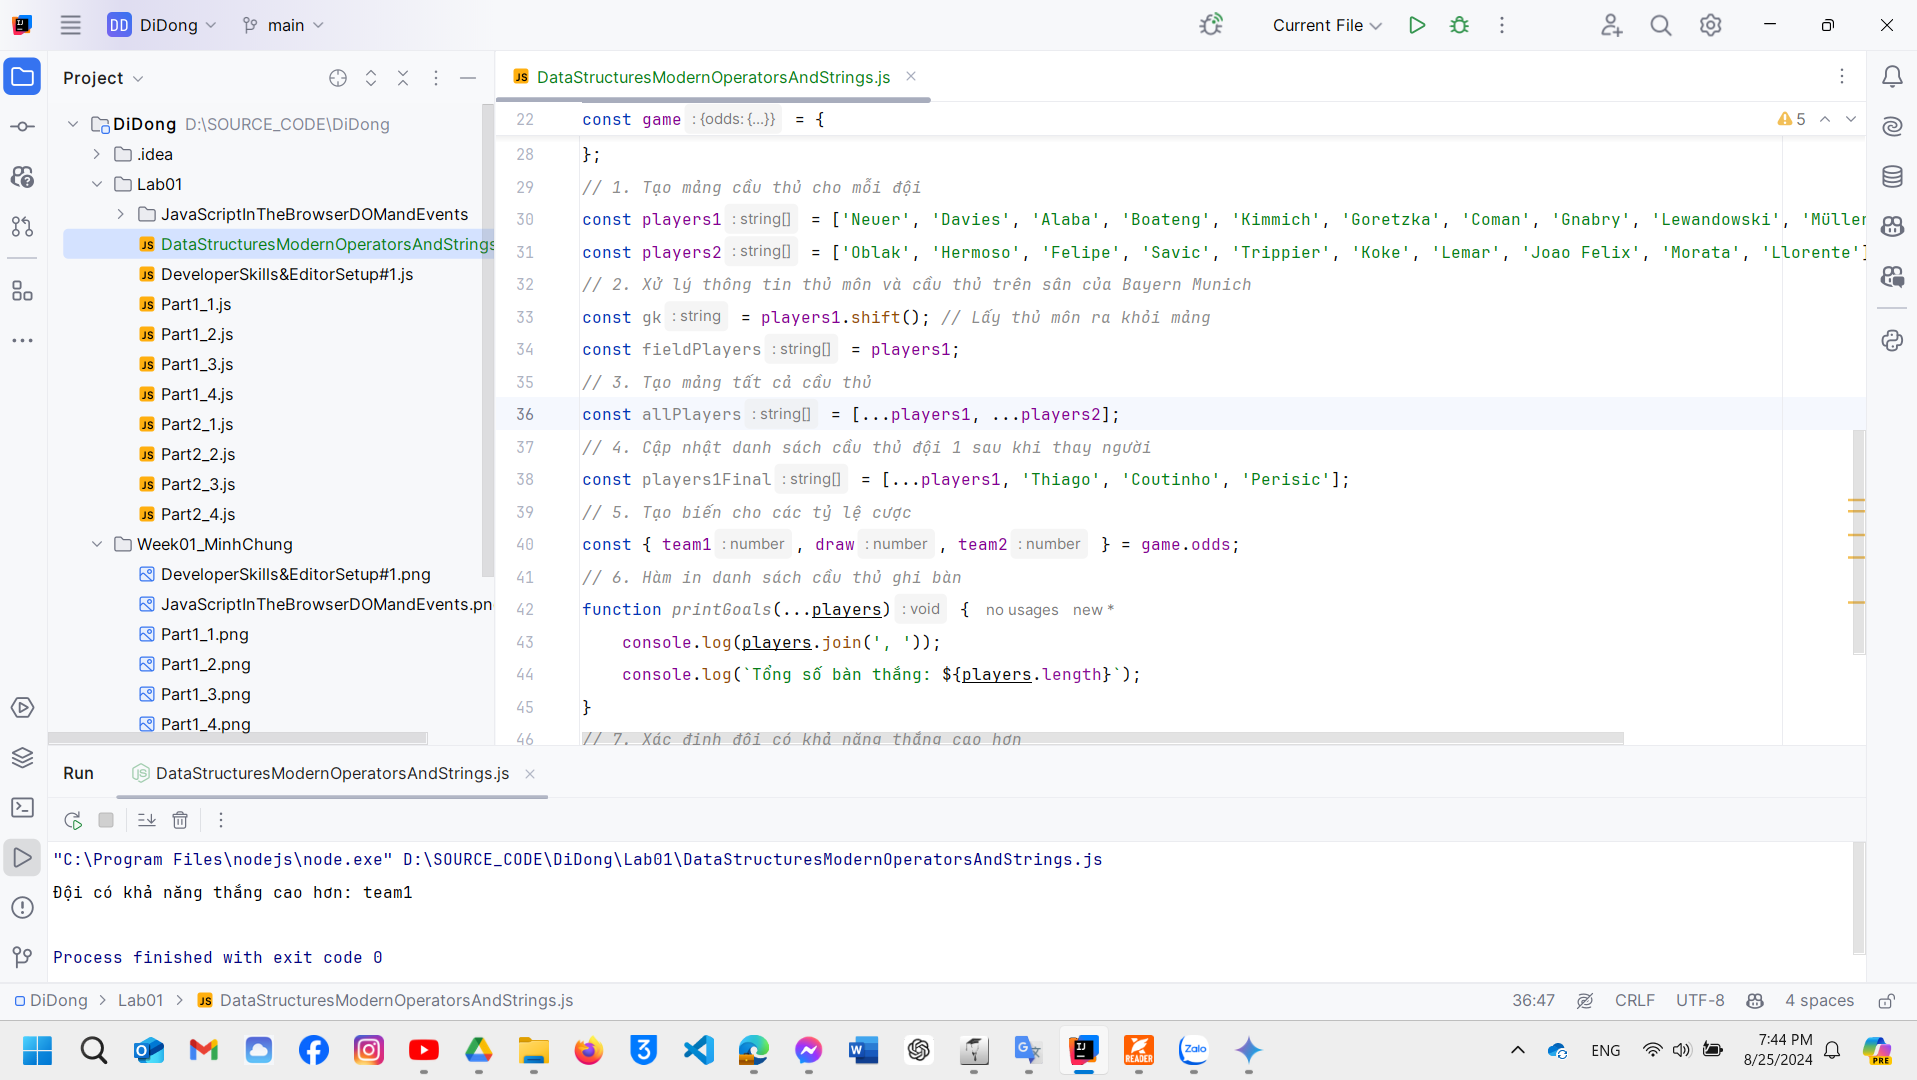
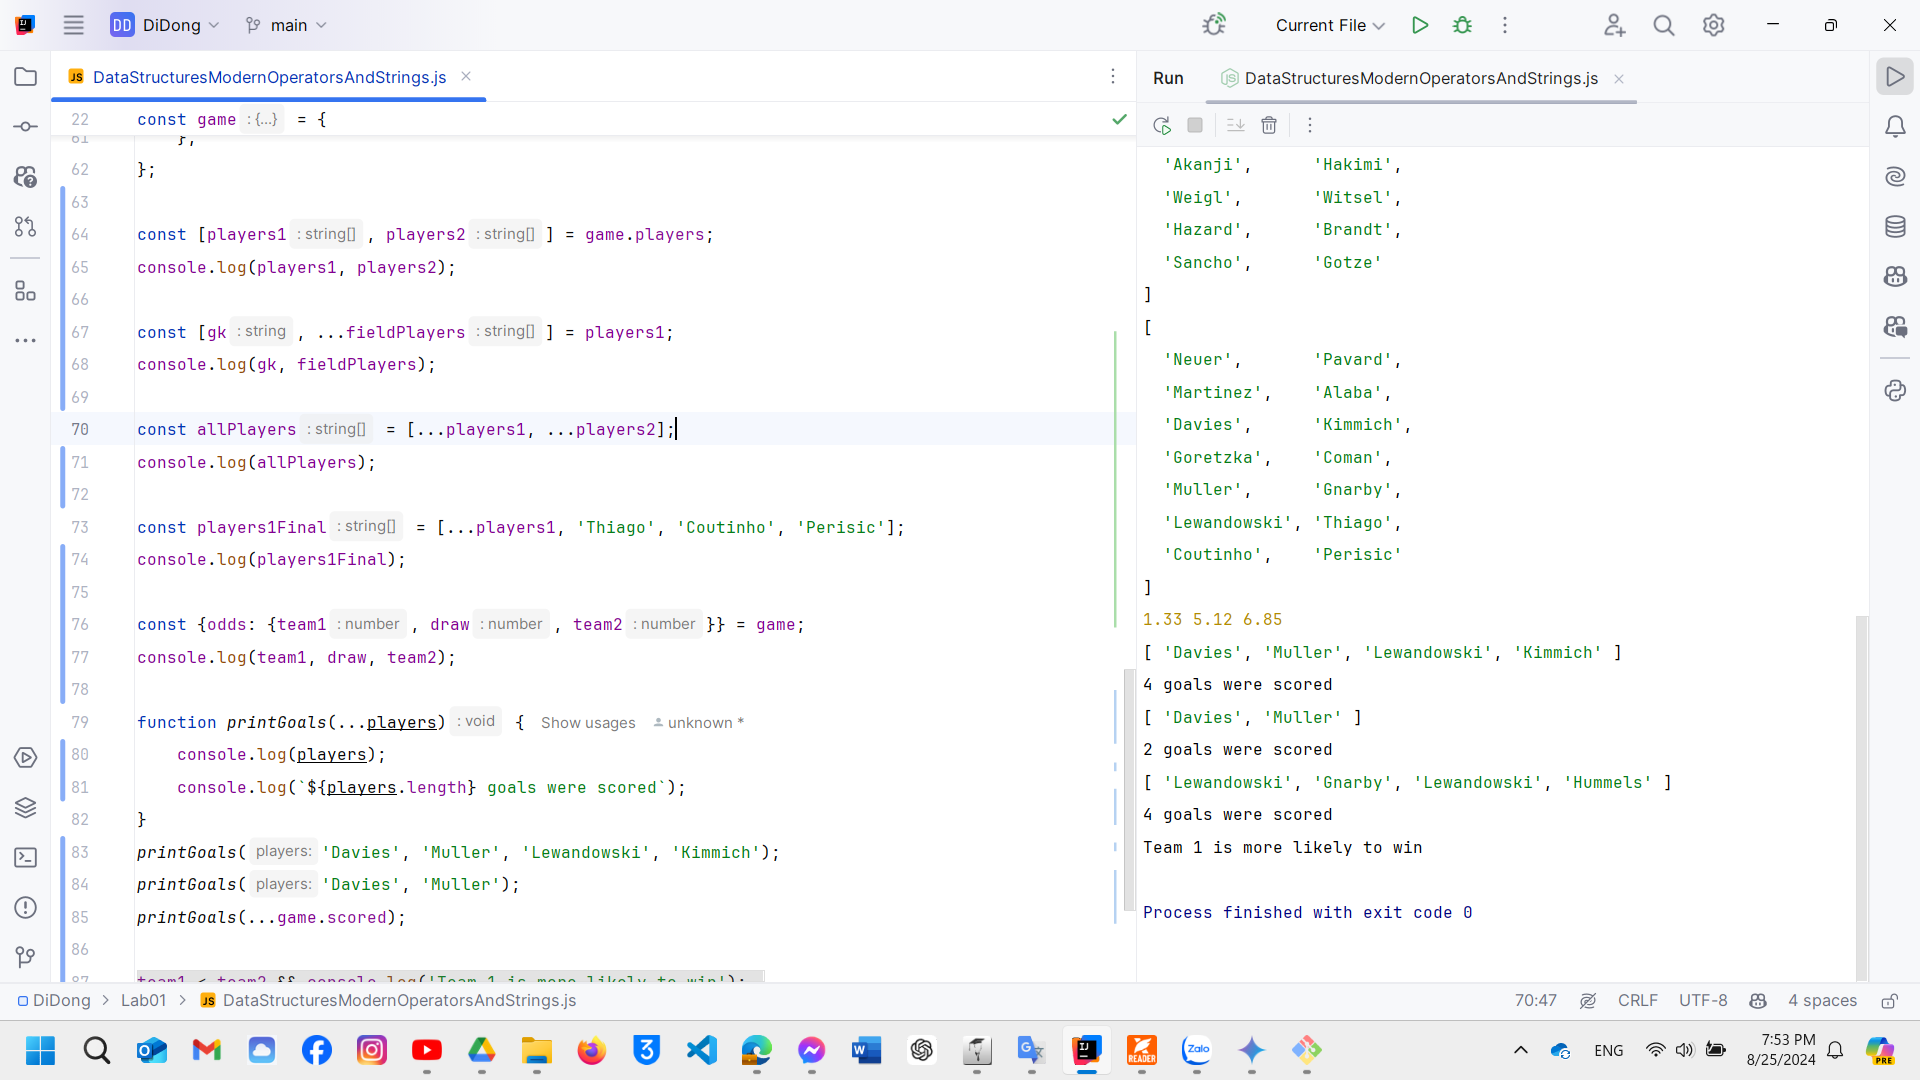
commit Data Structures Modern Operators And Strings

diff --git a/Lab01/DataStructuresModernOperatorsAndStrings.js b/Lab01/DataStructuresModernOperatorsAndStrings.js
@@ -20,29 +20,69 @@
 // ---------------------------------------------------------------------------------------------------------------------------------------------------
 // Giả sử dữ liệu từ dịch vụ web được lưu trữ trong biến game
 const game = {
+    team1: 'Bayern Munich',
+    team2: 'Borrussia Dortmund',
+    players: [
+        [
+            'Neuer',
+            'Pavard',
+            'Martinez',
+            'Alaba',
+            'Davies',
+            'Kimmich',
+            'Goretzka',
+            'Coman',
+            'Muller',
+            'Gnarby',
+            'Lewandowski',
+        ],
+        [
+            'Burki',
+            'Schulz',
+            'Hummels',
+            'Akanji',
+            'Hakimi',
+            'Weigl',
+            'Witsel',
+            'Hazard',
+            'Brandt',
+            'Sancho',
+            'Gotze',
+        ],
+    ],
+    score: '4:0',
+    scored: ['Lewandowski', 'Gnarby', 'Lewandowski',
+        'Hummels'],
+    date: 'Nov 9th, 2037',
     odds: {
         team1: 1.33,
         draw: 5.12,
         team2: 6.85,
     },
 };
-// 1. Tạo mảng cầu thủ cho mỗi đội
-const players1 = ['Neuer', 'Davies', 'Alaba', 'Boateng', 'Kimmich', 'Goretzka', 'Coman', 'Gnabry', 'Lewandowski', 'Müller'];
-const players2 = ['Oblak', 'Hermoso', 'Felipe', 'Savic', 'Trippier', 'Koke', 'Lemar', 'Joao Felix', 'Morata', 'Llorente'];
-// 2. Xử lý thông tin thủ môn và cầu thủ trên sân của Bayern Munich
-const gk = players1.shift(); // Lấy thủ môn ra khỏi mảng
-const fieldPlayers = players1;
-// 3. Tạo mảng tất cả cầu thủ
+
+const [players1, players2] = game.players;
+console.log(players1, players2);
+
+const [gk, ...fieldPlayers] = players1;
+console.log(gk, fieldPlayers);
+
 const allPlayers = [...players1, ...players2];
-// 4. Cập nhật danh sách cầu thủ đội 1 sau khi thay người
+console.log(allPlayers);
+
 const players1Final = [...players1, 'Thiago', 'Coutinho', 'Perisic'];
-// 5. Tạo biến cho các tỷ lệ cược
-const { team1, draw, team2 } = game.odds;
-// 6. Hàm in danh sách cầu thủ ghi bàn
+console.log(players1Final);
+
+const {odds: {team1, draw, team2}} = game;
+console.log(team1, draw, team2);
+
 function printGoals(...players) {
-    console.log(players.join(', '));
-    console.log(`Tổng số bàn thắng: ${players.length}`);
+    console.log(players);
+    console.log(`${players.length} goals were scored`);
 }
-// 7. Xác định đội có khả năng thắng cao hơn
-const winningTeam = ['team1', 'draw', 'team2'].reduce((prev, curr) => game.odds[prev] < game.odds[curr] ? prev : curr);
-console.log(`Đội có khả năng thắng cao hơn: ${winningTeam}`);
+printGoals('Davies', 'Muller', 'Lewandowski', 'Kimmich');
+printGoals('Davies', 'Muller');
+printGoals(...game.scored);
+
+team1 < team2 && console.log('Team 1 is more likely to win');
+team2 < team1 && console.log('Team 2 is more likely to win');
